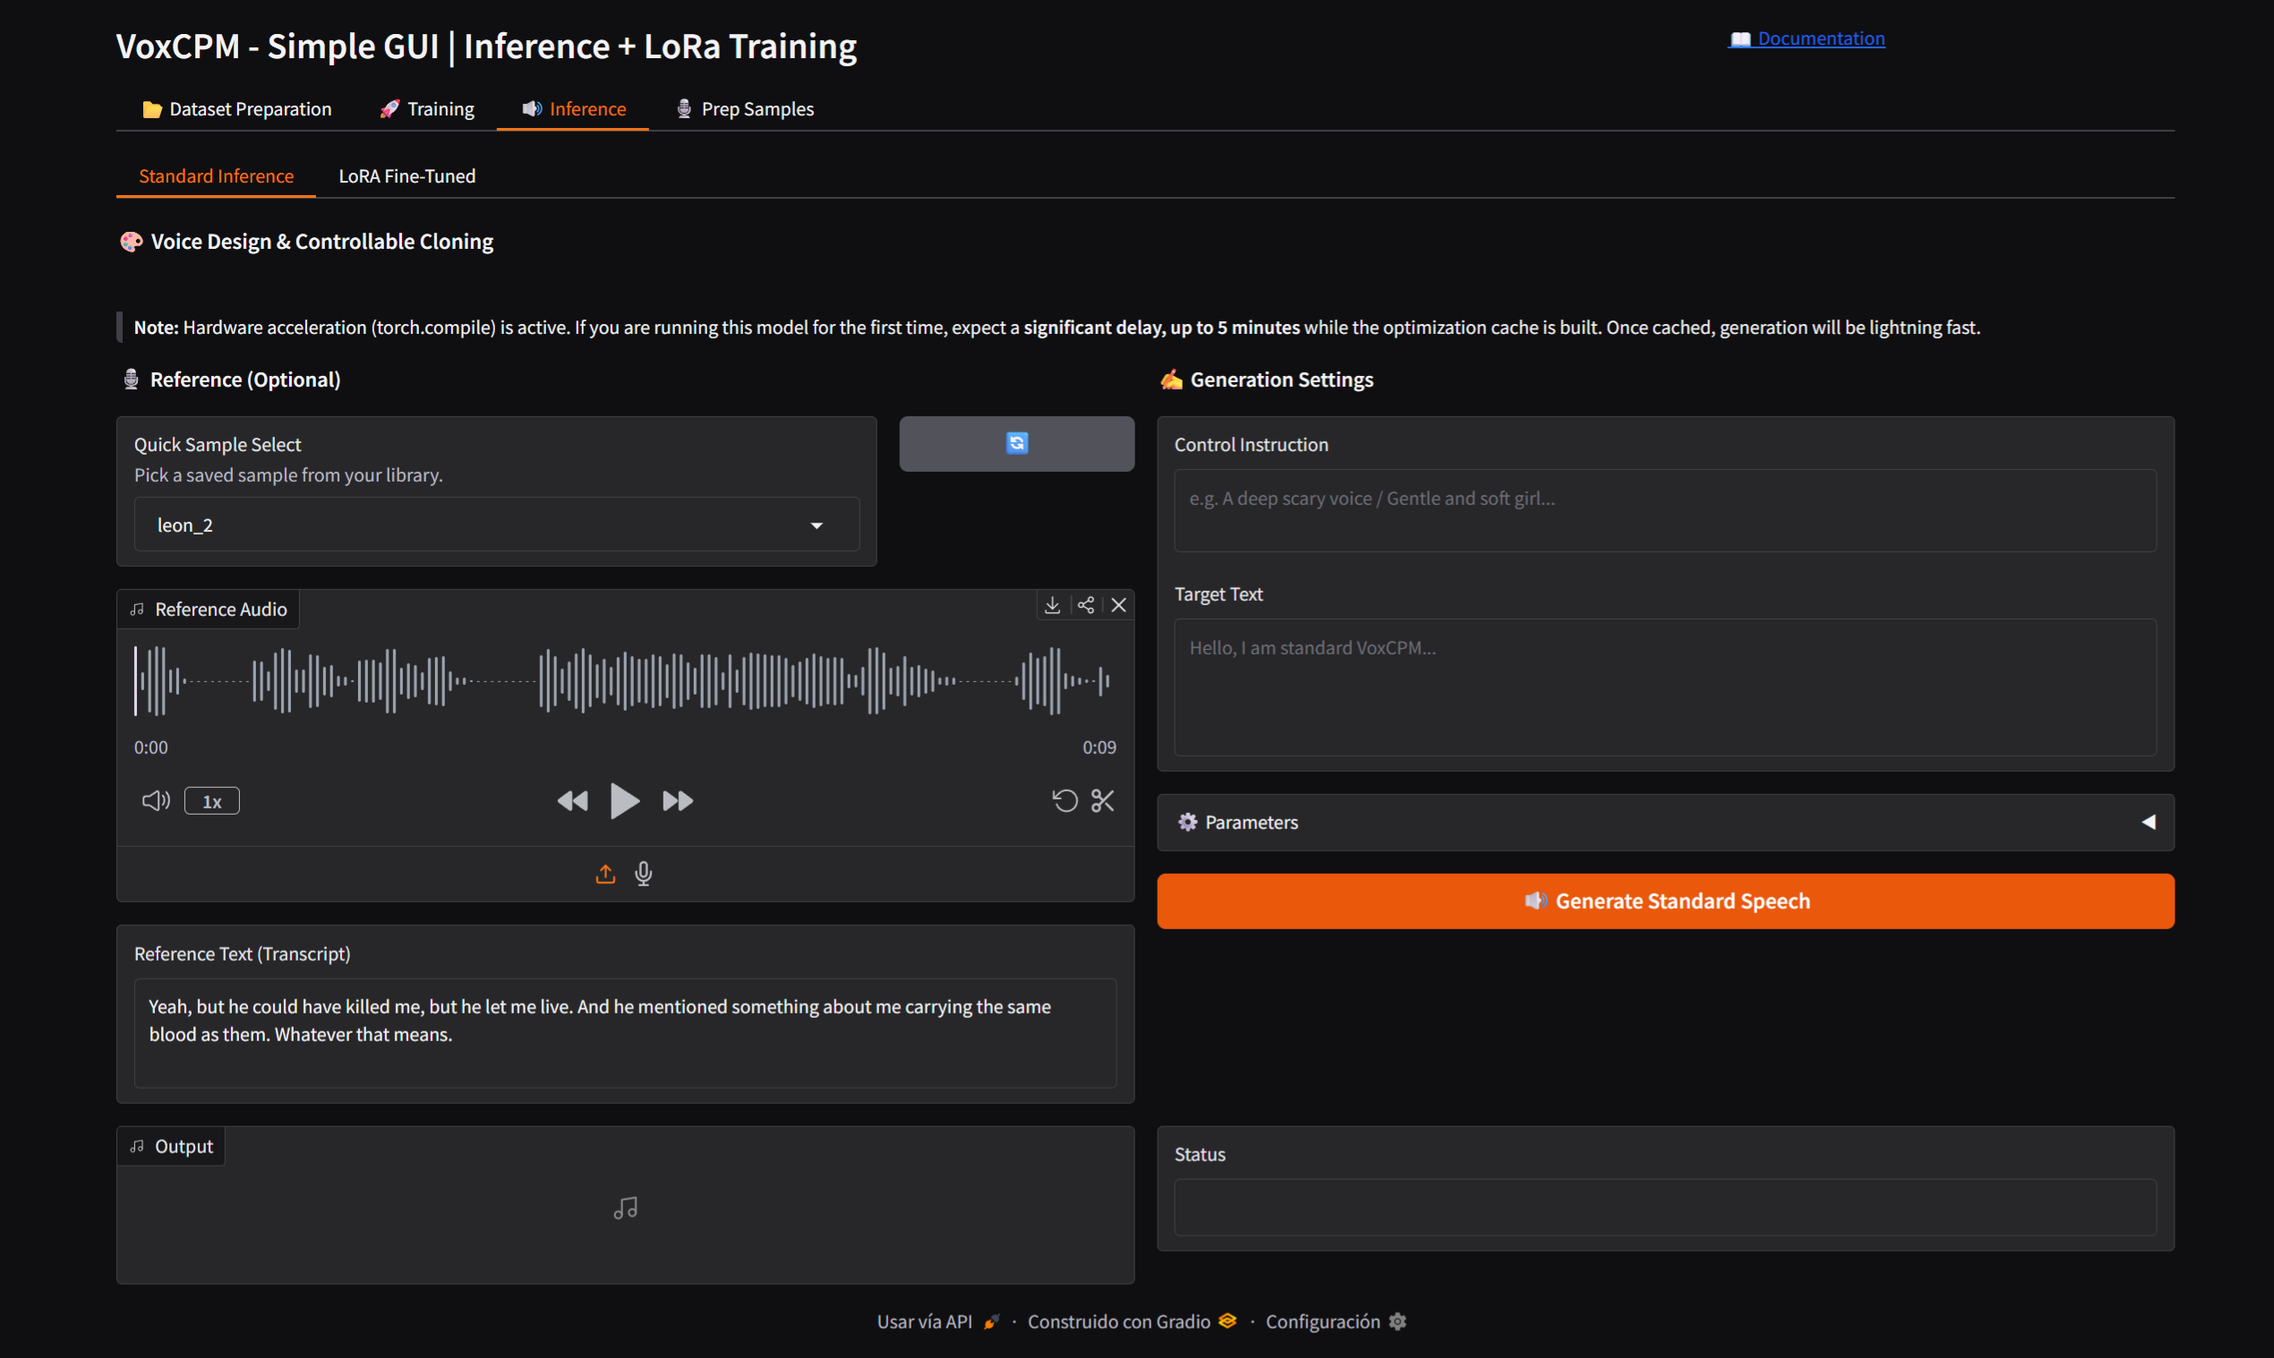
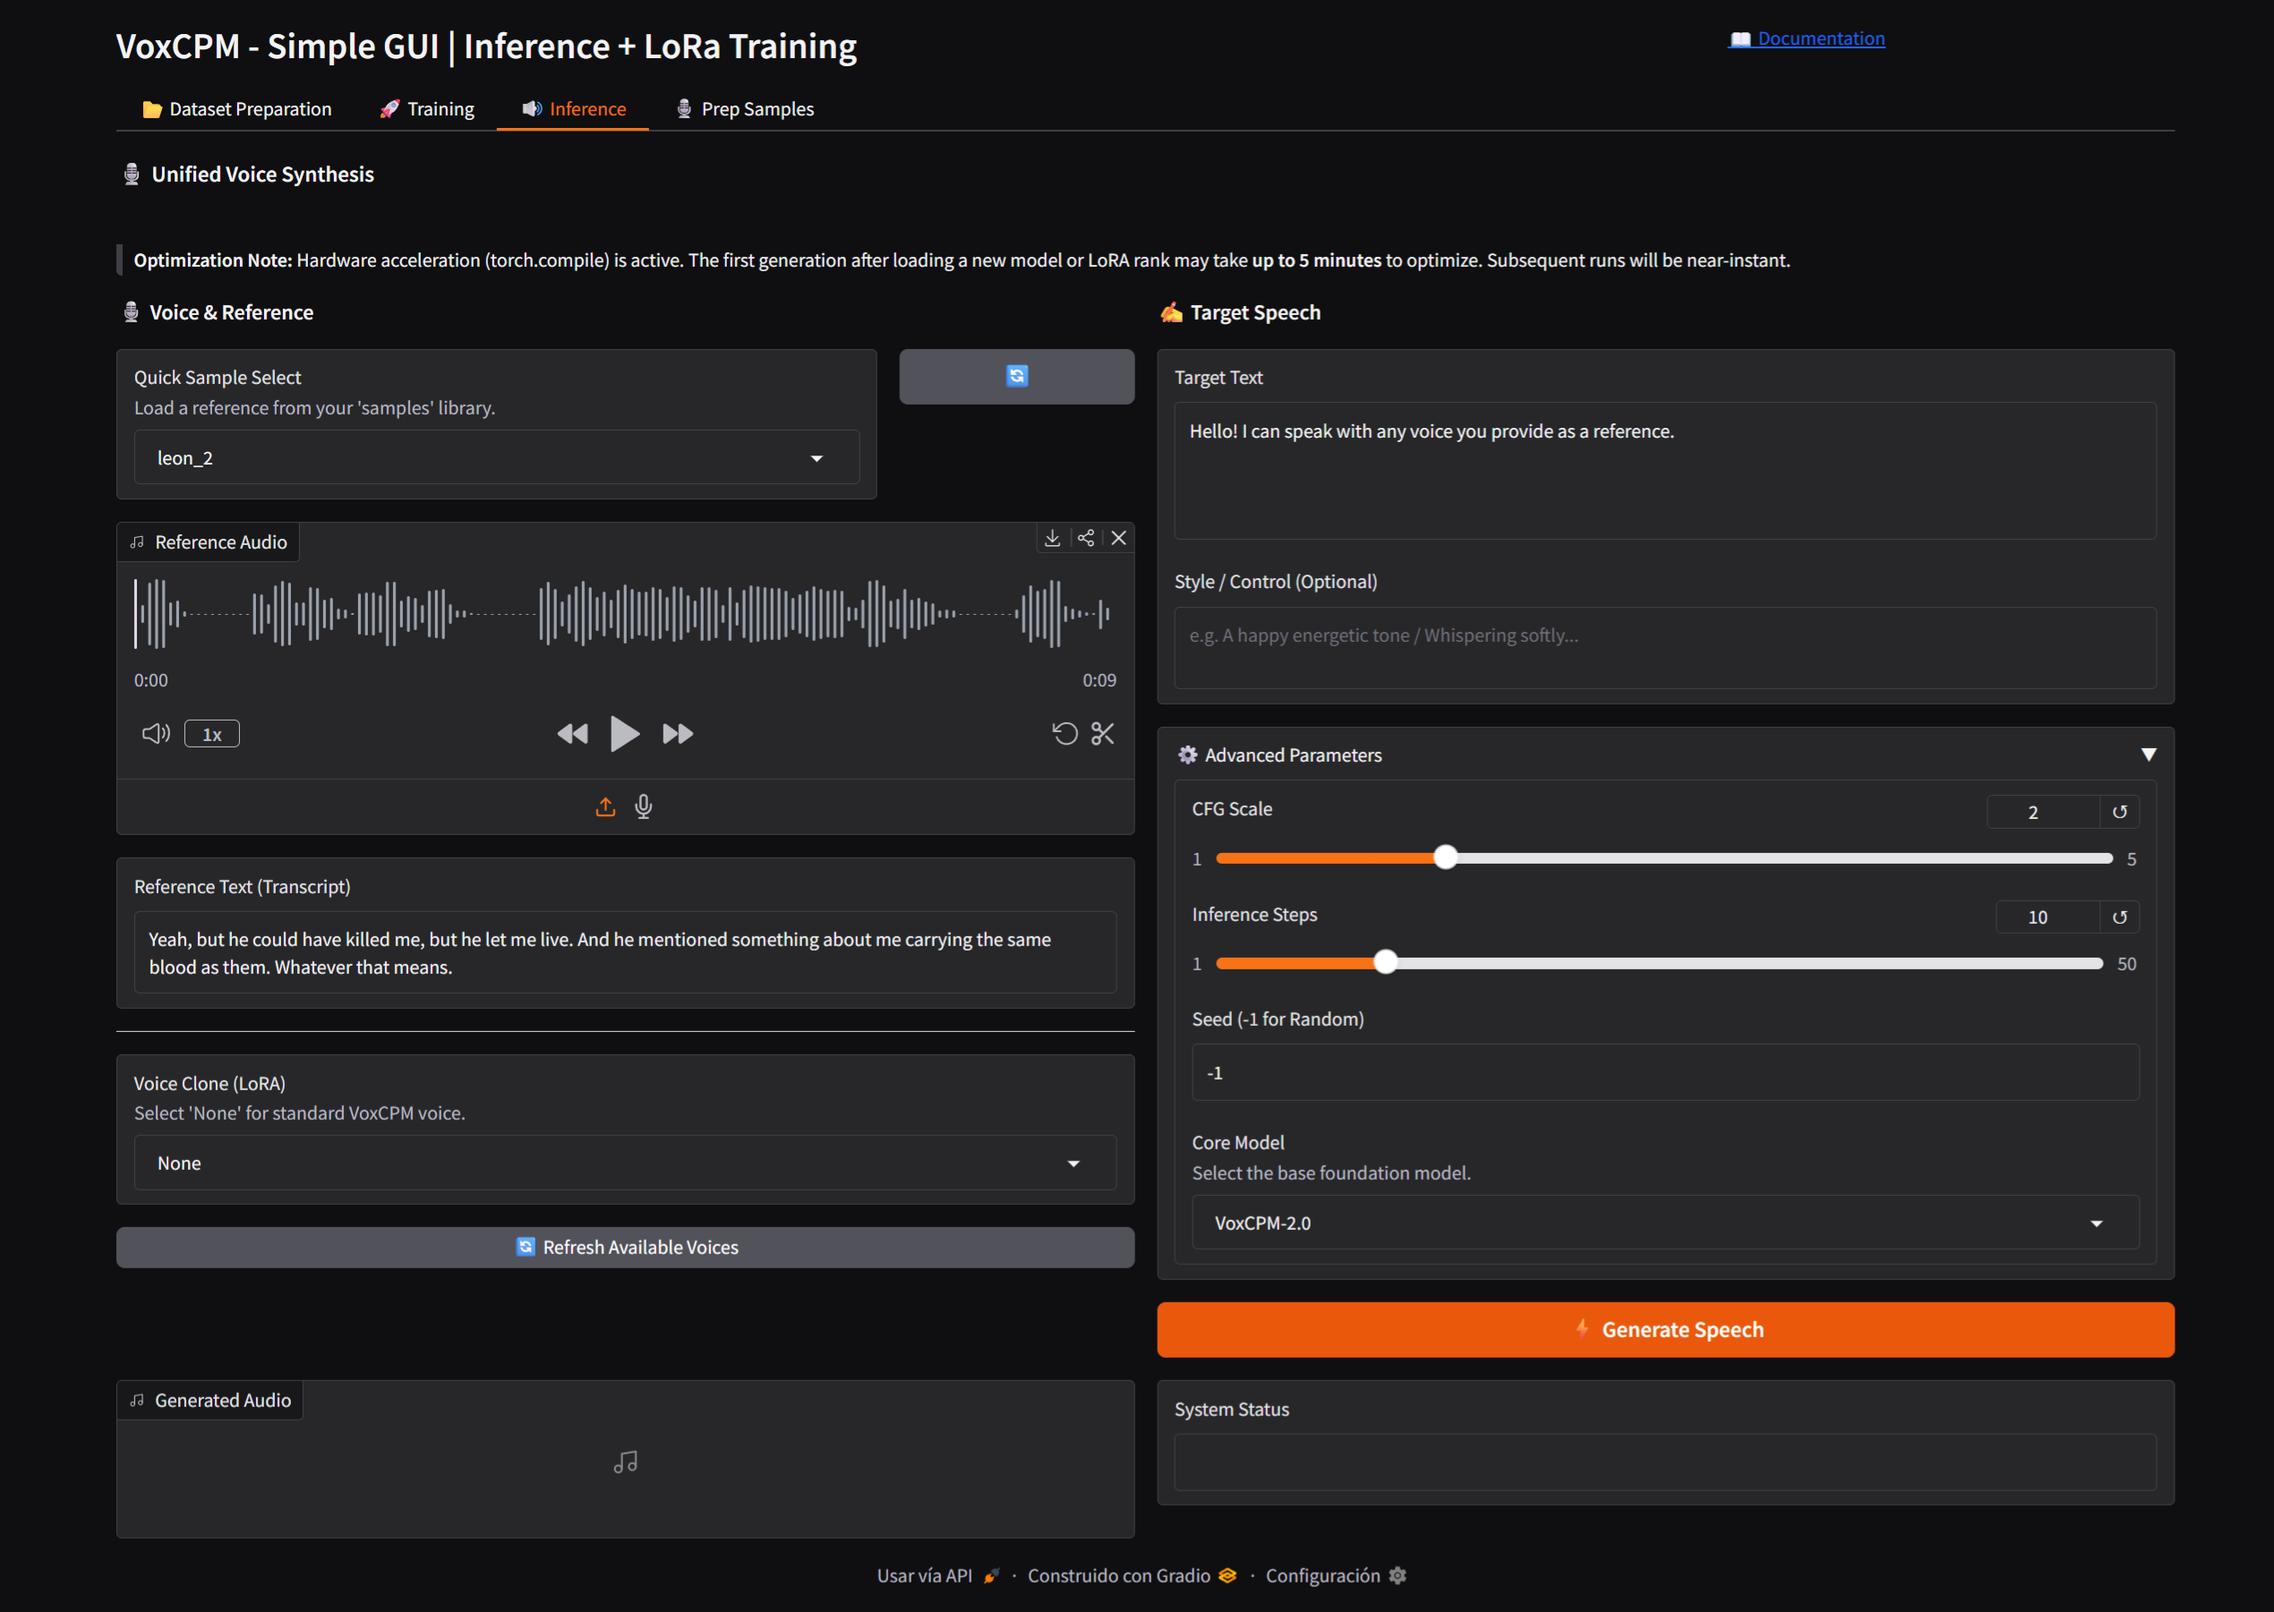
feat: implement default sample loading for inference and preparation tabs and update documentation assets

diff --git a/app.py b/app.py
@@ -898,6 +898,11 @@ def check_training_status():
 
 # --- GUI Layout ---
 with gr.Blocks(title="VoxCPM - Simple GUI | Inference + LoRa Training") as app:
+    # --- Initial State for Samples ---
+    sample_choices = get_sample_choices()
+    default_sample_name = sample_choices[0] if sample_choices else None
+    default_audio, default_text = load_sample(default_sample_name)
+    
     # --- Title Section ---
     with gr.Row(elem_classes="title-section"):
         with gr.Column(scale=4):
@@ -1223,18 +1228,20 @@ with gr.Blocks(title="VoxCPM - Simple GUI | Inference + LoRa Training") as app:
                     gr.Markdown("#### 🎙 Voice & Reference")
                     with gr.Row():
                         infer_sample_select = gr.Dropdown(
-                            choices=get_sample_choices(),
+                            choices=sample_choices,
+                            value=default_sample_name,
                             label="Quick Sample Select",
                             info="Load a reference from your 'samples' library.",
                             scale=4
                         )
                         refresh_infer_sample_btn = gr.Button("🔄", scale=1, min_width=50)
                     
-                    infer_ref_audio = gr.Audio(label="Reference Audio", type="filepath")
+                    infer_ref_audio = gr.Audio(label="Reference Audio", type="filepath", value=default_audio)
                     infer_ref_text = gr.Textbox(
                         label="Reference Text (Transcript)", 
                         placeholder="Automatic transcription if left empty...", 
-                        lines=2
+                        lines=2,
+                        value=default_text
                     )
                     
                     gr.Markdown("---")
@@ -1326,8 +1333,8 @@ with gr.Blocks(title="VoxCPM - Simple GUI | Inference + LoRa Training") as app:
                 with gr.Column(scale=1, elem_classes="form-section"):
                     gr.Markdown("#### 📂 Your Samples")
                     sample_dropdown = gr.Dropdown(
-                        choices=get_sample_choices(),
-                        value=get_sample_choices()[0] if get_sample_choices() else None,
+                        choices=sample_choices,
+                        value=default_sample_name,
                         label="Select Sample",
                         interactive=True
                     )
@@ -1344,16 +1351,17 @@ with gr.Blocks(title="VoxCPM - Simple GUI | Inference + LoRa Training") as app:
                     )
                     
                     
-                    prep_audio_player = gr.Audio(label="Audio Editor (Use Trim icon to edit)", type="filepath", interactive=True)
+                    prep_audio_player = gr.Audio(label="Audio Editor (Use Trim icon to edit)", type="filepath", interactive=True, value=default_audio)
                     prep_transcription = gr.Textbox(
                         label="Reference Text / Transcription",
                         placeholder="Transcription will appear here, or enter/edit text manually...",
                         lines=4,
-                        interactive=True
+                        interactive=True,
+                        value=default_text
                     )
                     with gr.Row():
                         transcribe_prep_btn = gr.Button("✨ Transcribe", variant="secondary")
-                        save_sample_name = gr.Textbox(label="Sample ID", placeholder="e.g. news_anchor_1", scale=2)
+                        save_sample_name = gr.Textbox(label="Sample ID", placeholder="e.g. news_anchor_1", scale=2, value=default_sample_name)
                         save_sample_btn = gr.Button("💾 Save Sample", variant="primary", scale=1)
                     
                     prep_op_status = gr.Textbox(label="Operation Status", interactive=False)

diff --git a/README.md b/README.md
@@ -8,9 +8,7 @@ A comprehensive WebUI for fine-tuning and interacting with **VoxCPM** models. Th
 
 <img src="./assets/3_inference_tab.png">
 
-<img src="./assets/4_inference_tab_lora.png">
-
-<img src="./assets/5_prep_samples_tab.png">
+<img src="./assets/4_prep_samples_tab.png">
 
 ---
 
